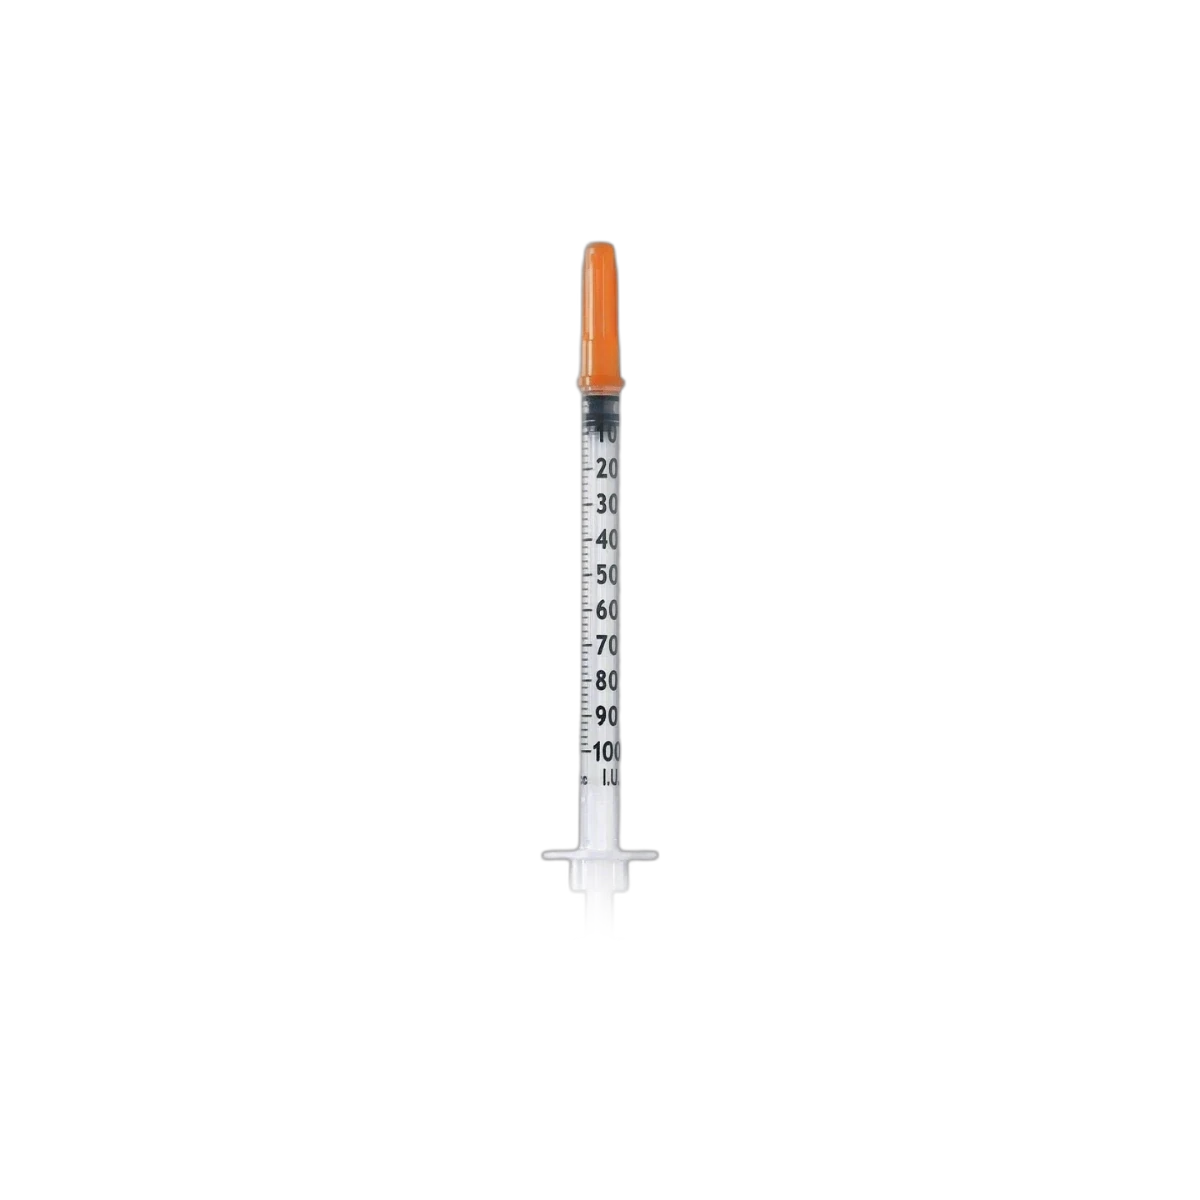
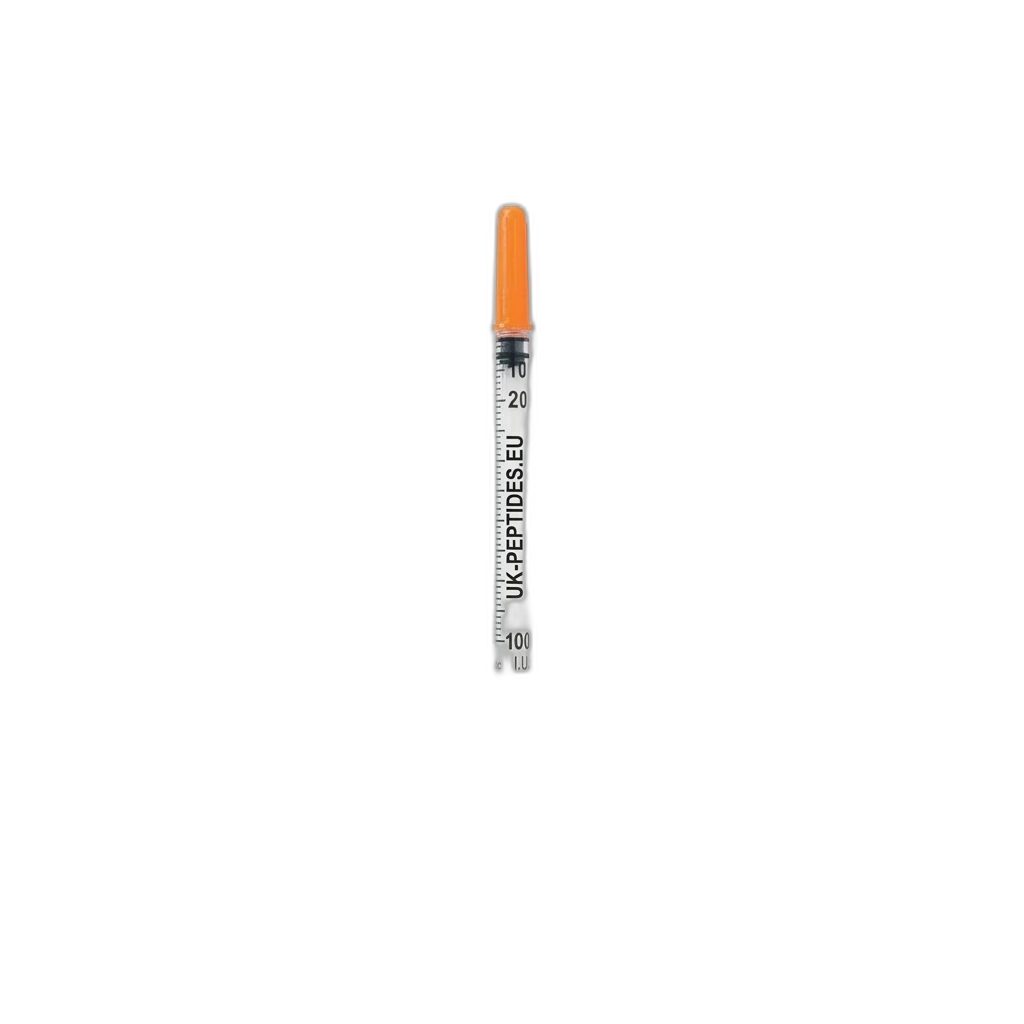
feat(vials): rebrand all vials to UK-PEPTIDES.EU + rmbg + rename Bac Water
- Replace OXPEPTIDES label with UK-PEPTIDES.EU on all 16 product vials
- Remove French flag from all vials (nano-banana-pro edit)
- Remove backgrounds via local rembg (u2net)
- Rename 'Bacteriostatic Water' -> 'Bac Water' in products.ts

Changed region(s): [[0.4375, 0.1875, 0.5625, 0.75]]

diff --git a/src/lib/products.ts b/src/lib/products.ts
@@ -332,12 +332,12 @@ export const products: Product[] = [
   },
   {
     slug: 'bacteriostatic-water',
-    name: 'Bacteriostatic Water',
+    name: 'Bac Water',
     shortBenefit: 'Sterile reconstitution solvent — 0.9% benzyl alcohol, pharmaceutical grade',
     category: 'Solvent',
     image: '/images/products/bacteriostatic-water.webp',
     variants: [
-      { id: 'bacwater-10ml', label: 'Bacteriostatic Water 10 mL', quantity: '10 mL', priceEur: 8 },
+      { id: 'bacwater-10ml', label: 'Bac Water 10 mL', quantity: '10 mL', priceEur: 8 },
     ],
     description:
       'Bacteriostatic Water for Injection (BW) is sterile water containing 0.9% w/v benzyl alcohol as a bacteriostatic preservative. It is the standard solvent for reconstituting lyophilised research peptides, as the benzyl alcohol prevents microbial growth in multi-dose vials, extending shelf life post-reconstitution to approximately 28 days when stored at 2–8°C. Our bacteriostatic water meets pharmaceutical-grade sterility standards and is supplied in sealed glass vials.',
